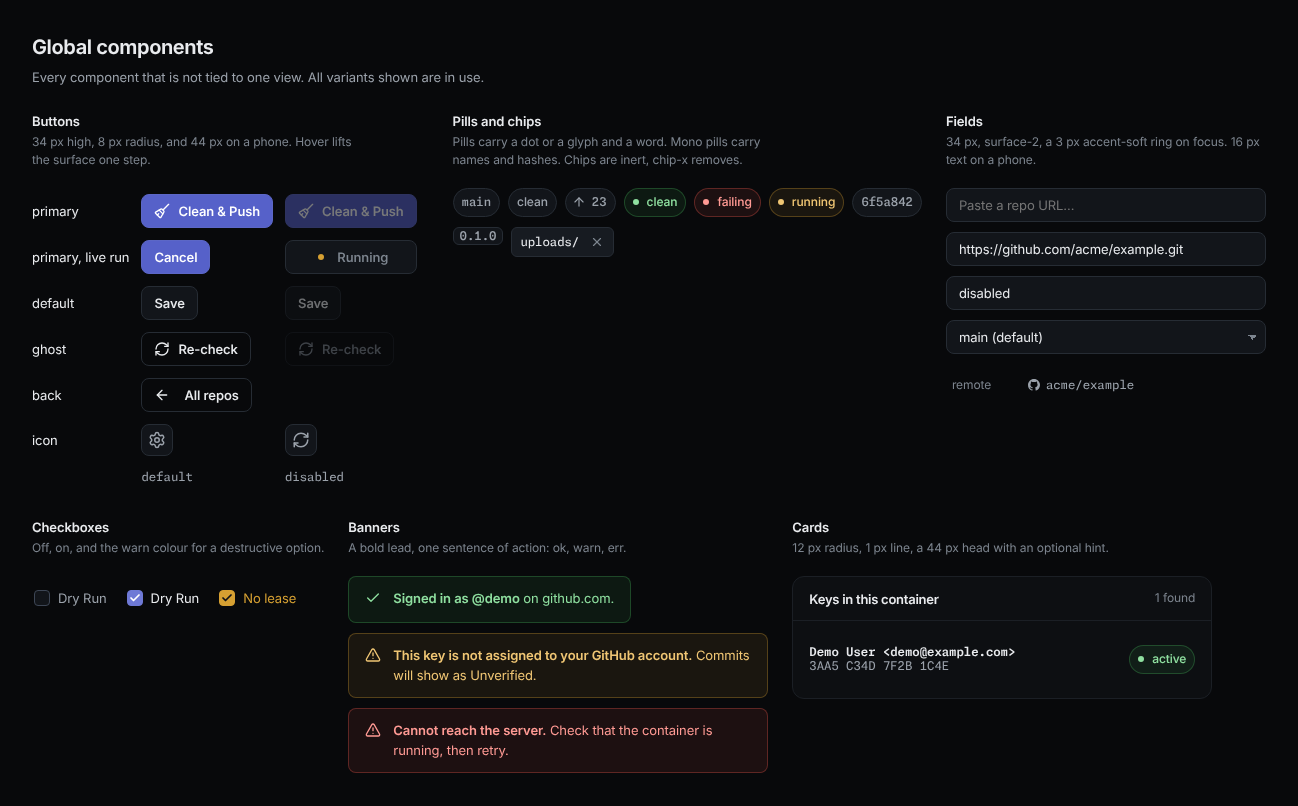
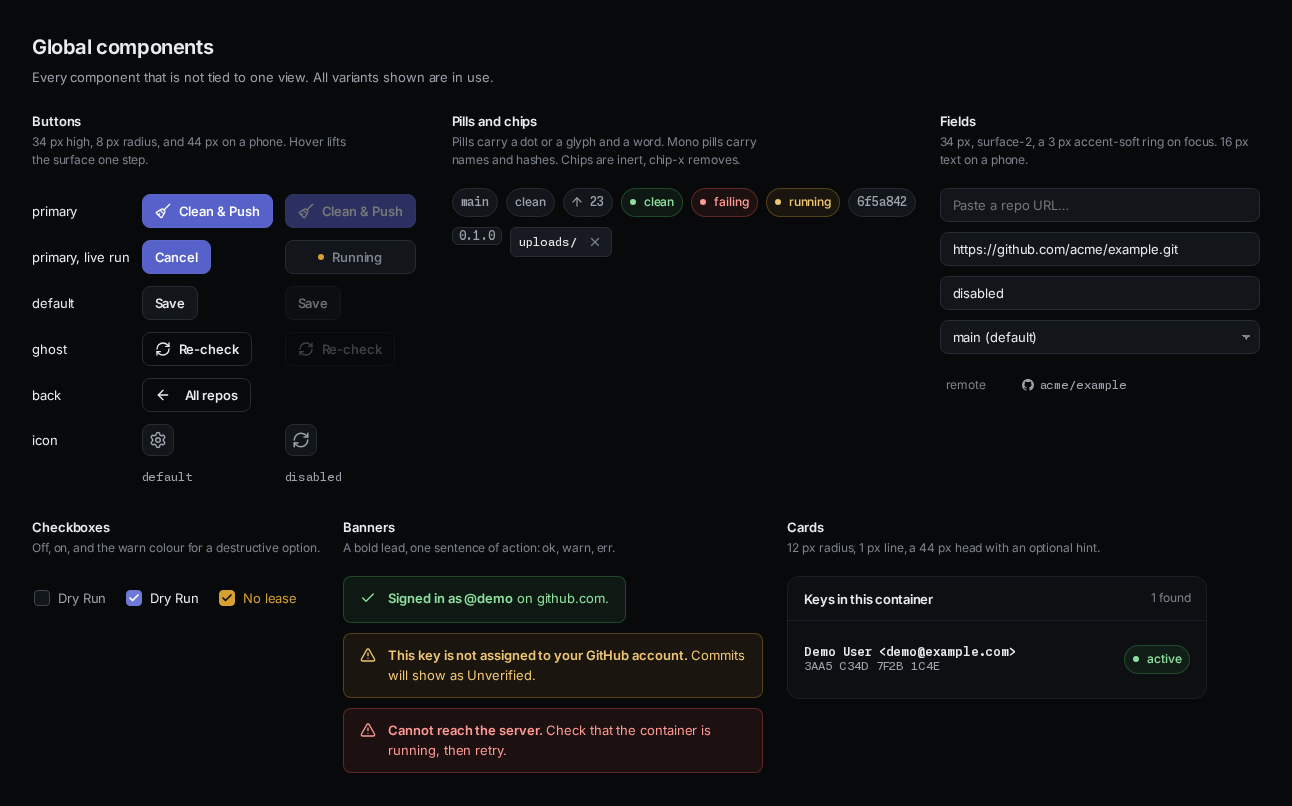
fix(ui): centre the Running dot and label as a pair

diff --git a/ui/static/index.html b/ui/static/index.html
@@ -271,6 +271,8 @@
   .btn.twin:not(.running) > .busy, .btn.twin.running > .idle { visibility: hidden; }
   .btn.twin.running:disabled { opacity: 1; cursor: progress; background: var(--surface-2); border-color: var(--line-2); color: var(--dim); }
   .btn.twin.running .busy .ico-svg { color: var(--warn); }
+  /* the busy face narrows the glyph box to the dot, so dot and label centre as a pair */
+  .btn.twin .busy .ico-svg { width: 6px; }
   /* the hidden busy face holds still, so an idle row runs no animation */
   .btn.twin:not(.running) .busy .dot { animation: none; }
   .clean .sparkles { opacity: 0; transition: opacity var(--fast) var(--ease); }

diff --git a/tests/e2e/test_dash_running.py b/tests/e2e/test_dash_running.py
@@ -31,7 +31,18 @@ ROW = """(card) => {
     disabled: btn.disabled, title: btn.title, amber: glyph.color === warn || glyph.color === hex(warn),
     dot: Boolean(dot) && !slot.querySelector('svg'),
     pulses: dot ? getComputedStyle(dot).animationName === 'pulse' : false,
-    box: [btn.offsetWidth, btn.offsetHeight] };
+    box: [btn.offsetWidth, btn.offsetHeight], pair: pair() };
+  // the visible pair, dot to label end, sits on the button centre with an 8 px gap
+  function pair() {
+    const busy = btn.querySelector('.busy');
+    const range = document.createRange();
+    range.selectNodeContents([...busy.childNodes].find((n) => n.nodeType === 3));
+    const text = range.getBoundingClientRect();
+    const d = dot.getBoundingClientRect();
+    const b = btn.getBoundingClientRect();
+    const skew = (d.left + text.right) / 2 - (b.left + b.width / 2);
+    return [Math.round(text.left - d.right), Math.abs(skew) <= 1];
+  }
   function hex(c) {
     const m = /^#([0-9a-f]{6})$/i.exec(c);
     return m ? `rgb(${[0, 2, 4].map((i) => parseInt(m[1].slice(i, i + 2), 16)).join(', ')})` : c;
@@ -71,7 +82,8 @@ def test_a_live_job_marks_its_row(desktop: Walker) -> None:
       "dot": True,
       "pulses": True,
       "box": other["box"],
-    }, "the button carries the run, no pill, and the same box as an idle one"
+      "pair": [8, True],
+    }, "the button carries the run, no pill, an idle box, and a centred pair"
     assert other["busy"] is None and other["label"] == "Clean & Push", "one row alone"
     assert other["pulses"] is False
     # repo view and back: the return reads the statuses once more

diff --git a/docs/design.md b/docs/design.md
@@ -545,5 +545,6 @@ The one design record for the arena-cleanup web app. Its sections follow the nem
 - Accepted 2026-10-25: a removal in flight stays out of every repo list reload. A refused one brings its row back from the server list.
 - Accepted 2026-10-25: scrollbars follow the nuu recipe in full, with the hover tint kept. The page root drops its reserved gutter, which cost 10 px on every desktop view.
 - Accepted 2026-10-25: the loading bar follows the nuu recipe. A 200 ms delay, growth from the left on a transform, and `aria-busy` on the dashboard view replace the 30% sweep.
+- Accepted 2026-10-25: the Running button shows its dot bare. The busy face narrows the glyph box to 6 px, so dot and label centre as a pair with an 8 px gap.
 - Accepted 2026-10-25: the dashboard names how long ago a repo was last active, the newest of check completion, arena tip commit, and PR edit. The compact nuu form sits after the name, the full form and the source in its title.
 - Accepted 2026-10-24: page memory keeps commit pages by repo, ref, tip, and cursor, the settings and signing answers, and the last run per repo. Each paints at once, and a fresh read replaces it only when the answer differs.

diff --git a/CHANGELOG.md b/CHANGELOG.md
@@ -9,6 +9,13 @@ The engine, `arena-cleanup.py`, carries its own number and its own file,
 The format follows [Keep a Changelog](https://keepachangelog.com/en/1.1.0/),
 and the project uses [Semantic Versioning](https://semver.org/spec/v2.0.0.html).
 
+## [0.3.12] - 2026-10-25
+
+### Fixed
+
+- The Running button centres its dot and label as a pair. The dot's glyph box
+  shrinks to the dot, so the pair no longer sits 3 px right with a 14 px gap.
+
 ## [0.3.11] - 2026-10-25
 
 ### Added
